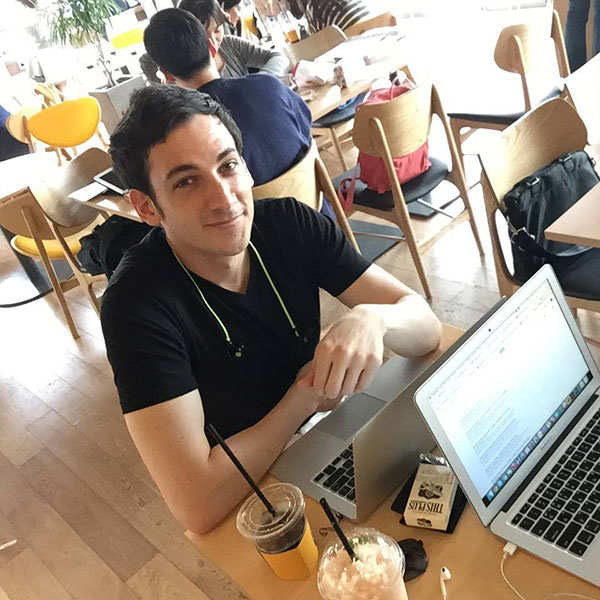
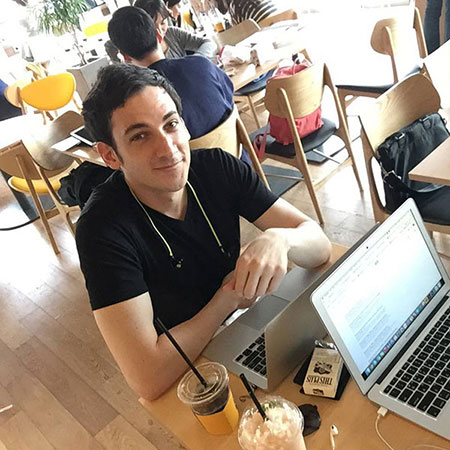
Removed image link and reduced image size

diff --git a/index.html b/index.html
@@ -22,7 +22,7 @@
     <section>
 
       <figure>
-        <a href="jamesmartinduffy.jpg"><img src="jamesmartinduffy.jpg"></a>
+        <img src="jamesmartinduffy.jpg">
       </figure>
 
       <h2>About Me</h2>
